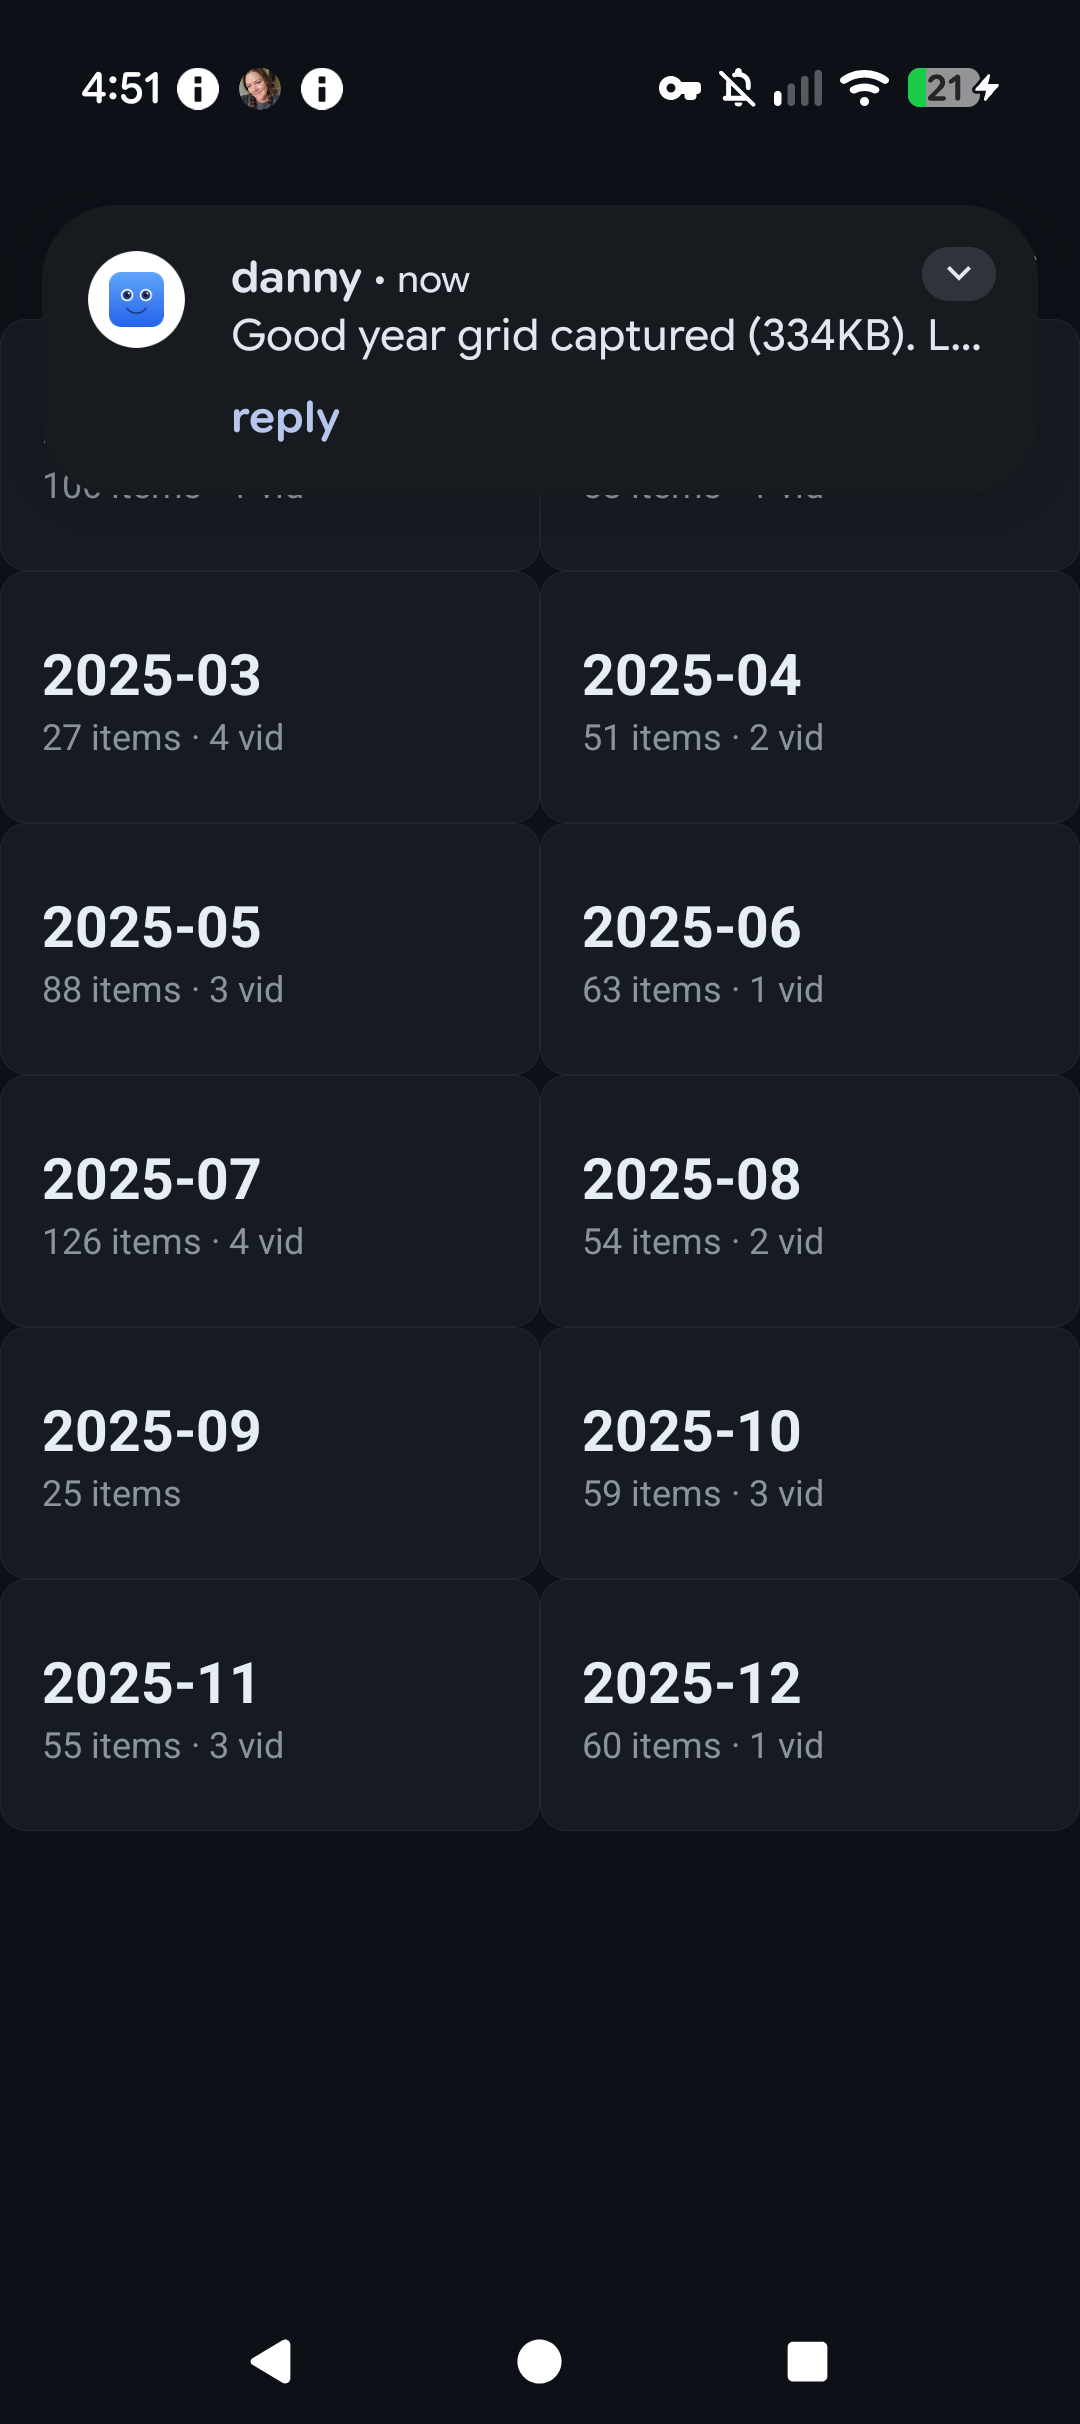
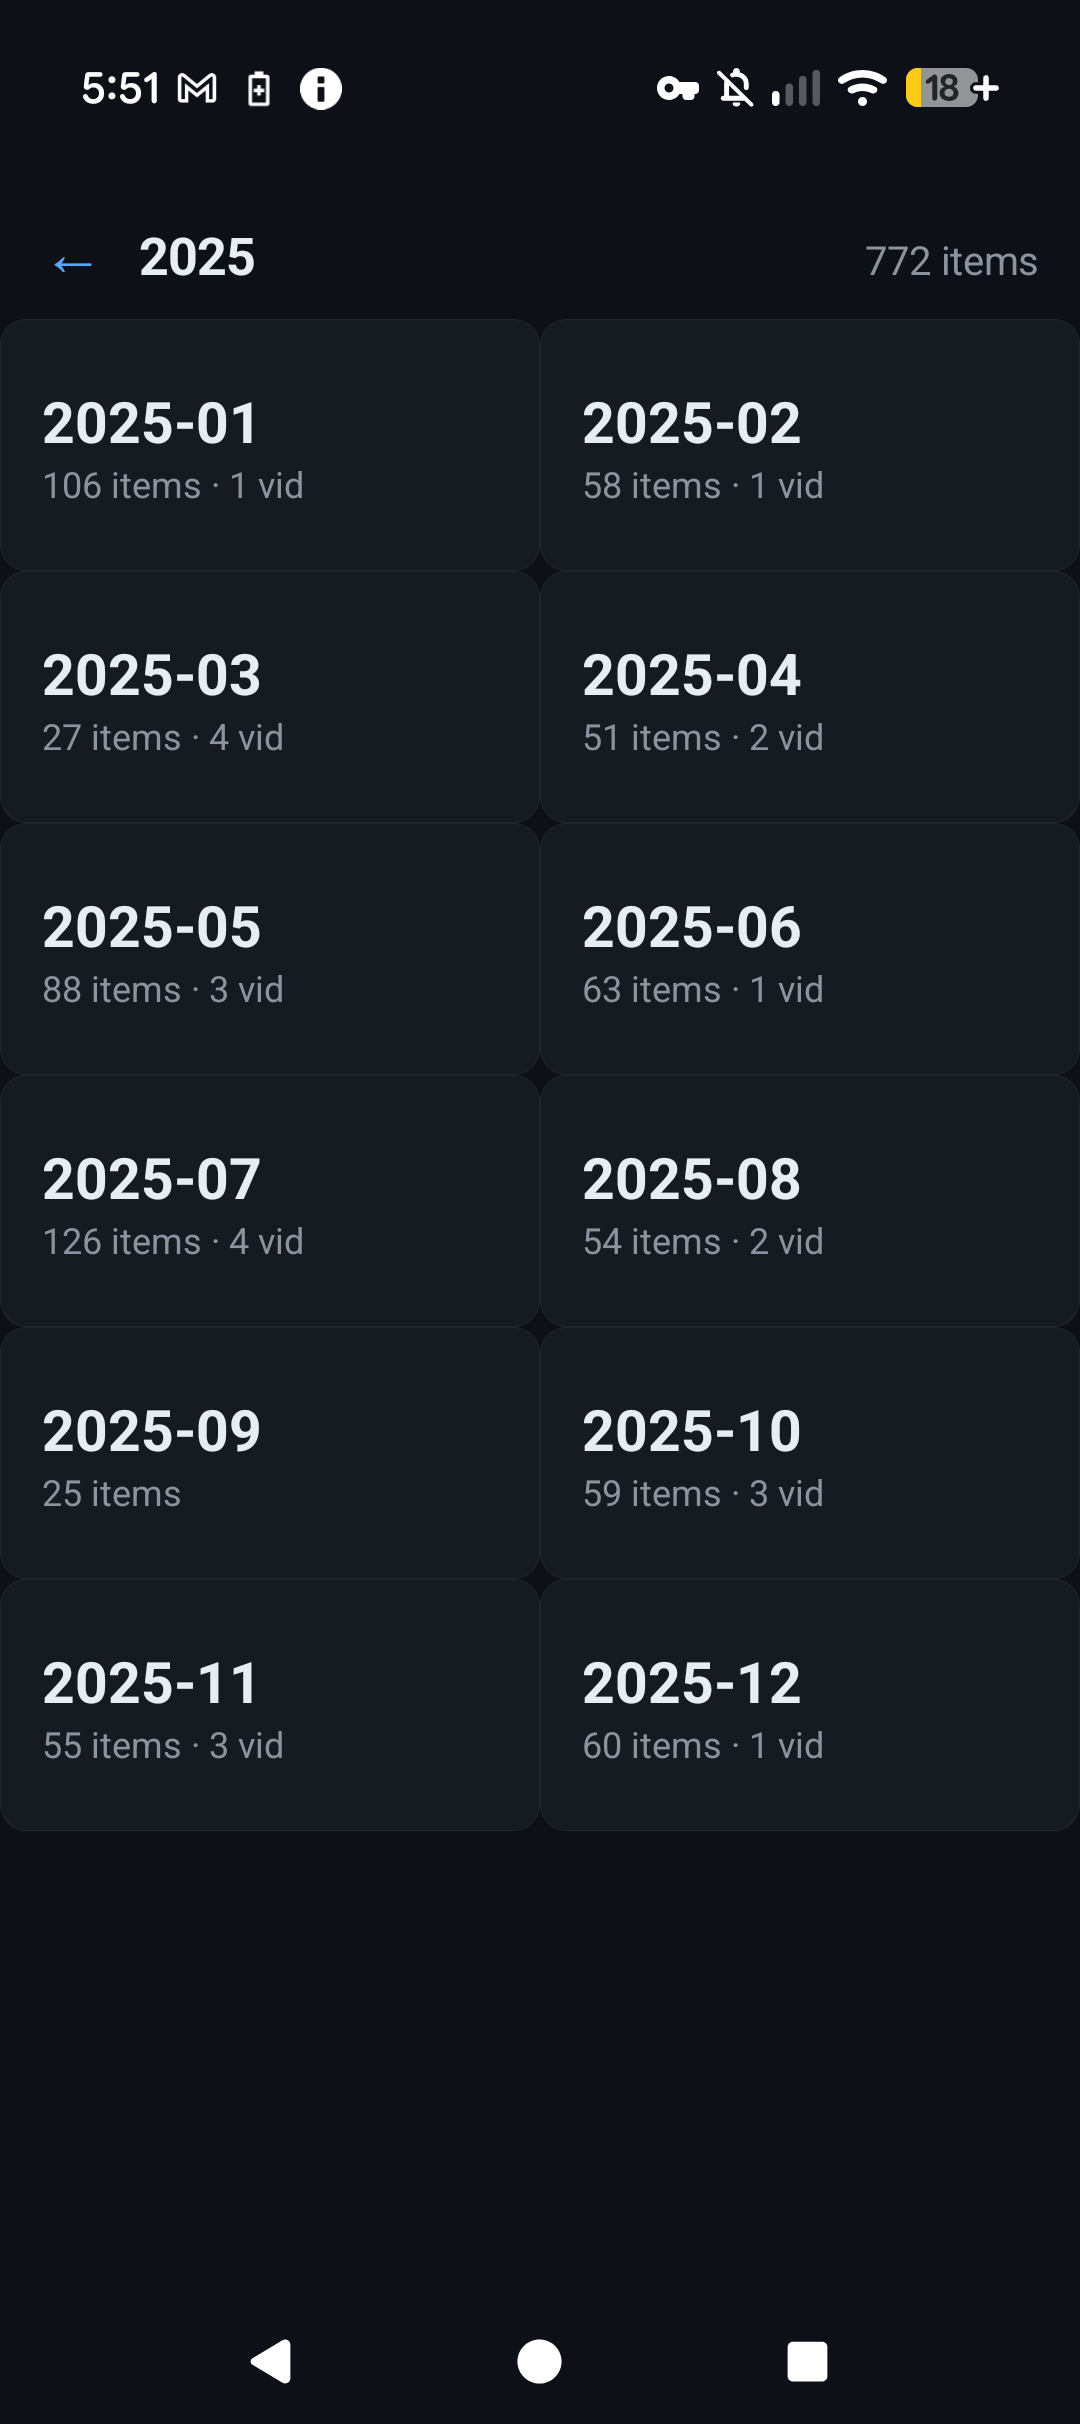
Photo Album article: replace private screenshots with QI-2.1 hero + clean UI
- Hero: Qwen-Image-2.1 generated (grid of glowing photo tiles, no private content)
- Body: clean year grid + months grid re-captures (no danny notifications)
- Removed: personal-photo screenshots (photo grid, viewer, video, multi-select)
  that leaked names/notifications

diff --git a/tech/photo-album-sovereign-photo-library.html b/tech/photo-album-sovereign-photo-library.html
@@ -106,6 +106,7 @@ pull from the phone (7,231 files). Here's the surprising part — only <strong>1
 byte-identical between the two. Google <strong>re-encodes photos in the cloud</strong>, so the "originals" in
 your Takeout are not the same files as the ones on your phone. We kept both (the union), so
 nothing was lost — we actually ended up with <em>more</em> than Google had.</p>
+<p><img alt="The year grid — every year from 2004 to 2026, with counts and sizes" src="images/photo-album-year-grid.png" /></p>
 <hr />
 <h2>The architecture (the part that makes it feel fast)</h2>
 <p>The naive approach — "download all 44 GB to the phone" — is terrible. It would take forever, eat
@@ -146,9 +147,6 @@ traversal.</p>
 thumbnail/image loading (with an LRU disk cache) and <strong>ExoPlayer</strong> (media3) for video. The flow is
 <strong>Years → Months → Grid → Viewer</strong>. The viewer does pinch-zoom and pan for photos and in-app
 playback for videos. Every screen has pull-to-refresh.</p>
-<p><img alt="A month's grid with the All / Photos / Videos filter" src="images/photo-album-photo-grid.png" /></p>
-<p><img alt="The full-res viewer — pinch to zoom, pan, share, delete" src="images/photo-album-viewer.png" /></p>
-<p><img alt="Video playback, in-app, with full controls" src="images/photo-album-video.png" /></p>
 <hr />
 <h2>How we built it (three sessions)</h2>
 <p><strong>Session A — Storage + import.</strong> We built the import machinery: EXIF-date-based filing (photos
@@ -209,7 +207,6 @@ the seek landed past the end and ffmpeg again produced nothing. The fallback (fi
 the same <code>.part</code> bug. Fix: tell ffmpeg the format explicitly (<code>-f image2</code>) and seek to 1 second
 instead of 3 (with a first-frame fallback for sub-second clips). We regenerated all 881 video
 thumbs — 878 now show real frames, 3 are genuinely unplayable.</p>
-<p><img alt="Multi-select — long-press to select, then share or delete a batch" src="images/photo-album-multiselect.png" /></p>
 <hr />
 <h2>The result</h2>
 <p>A native app that opens instantly, browses 21,000 photos by year and month, shows thumbnails,
